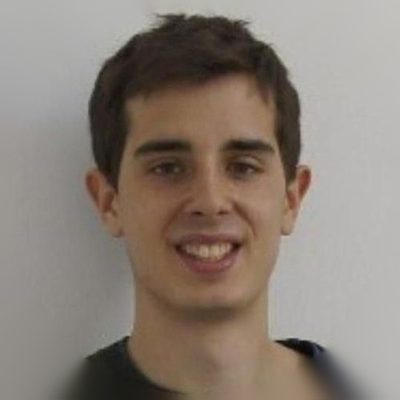
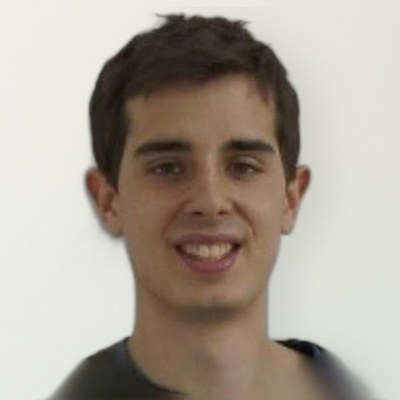
Foto de Iván con fondo claro
Claude-Session: https://claude.ai/code/session_01CP4qo4Dh2XTBxRisx4jYVc

diff --git a/index.html b/index.html
@@ -239,7 +239,7 @@ footer img { height: 40px; width: auto; }
       <div class="sp"><div class="ph"><img src="img/marian.jpg?v=2" alt="Marian Otamendi" loading="lazy"></div><span class="role">Mesa redonda · Bloque II</span><b>Marian Otamendi</b><span class="a">CEO World Football Summit</span></div>
       <div class="sp"><div class="ph"><img src="img/german.jpg" alt="Germán Robles" loading="lazy"></div><span class="role">Mesa redonda · Bloque II</span><b>Germán Robles</b><span class="a">CEO GRH Lab</span></div>
       <div class="sp"><div class="ph org"><img src="img/jorge.jpg" alt="Jorge López Fernández" loading="lazy"></div><span class="role o">Responsable del evento</span><b>Jorge López Fernández</b><span class="a">Escuela Universitaria Real Madrid</span></div>
-      <div class="sp"><div class="ph org"><img src="img/ivan.jpg" alt="Iván Ramírez Bravo" loading="lazy"></div><span class="role o">Responsable del evento</span><b>Iván Ramírez Bravo</b><span class="a">Universidad Europea de Madrid</span></div>
+      <div class="sp"><div class="ph org"><img src="img/ivan.jpg?v=2" alt="Iván Ramírez Bravo" loading="lazy"></div><span class="role o">Responsable del evento</span><b>Iván Ramírez Bravo</b><span class="a">Universidad Europea de Madrid</span></div>
       <div class="sp"><div class="ph org"><img src="img/paula.jpg" alt="Paula Alejo" loading="lazy"></div><span class="role o">Organización</span><b>Paula Alejo</b><span class="a">Escuela Universitaria Real Madrid</span></div>
     </div>
   </div>
